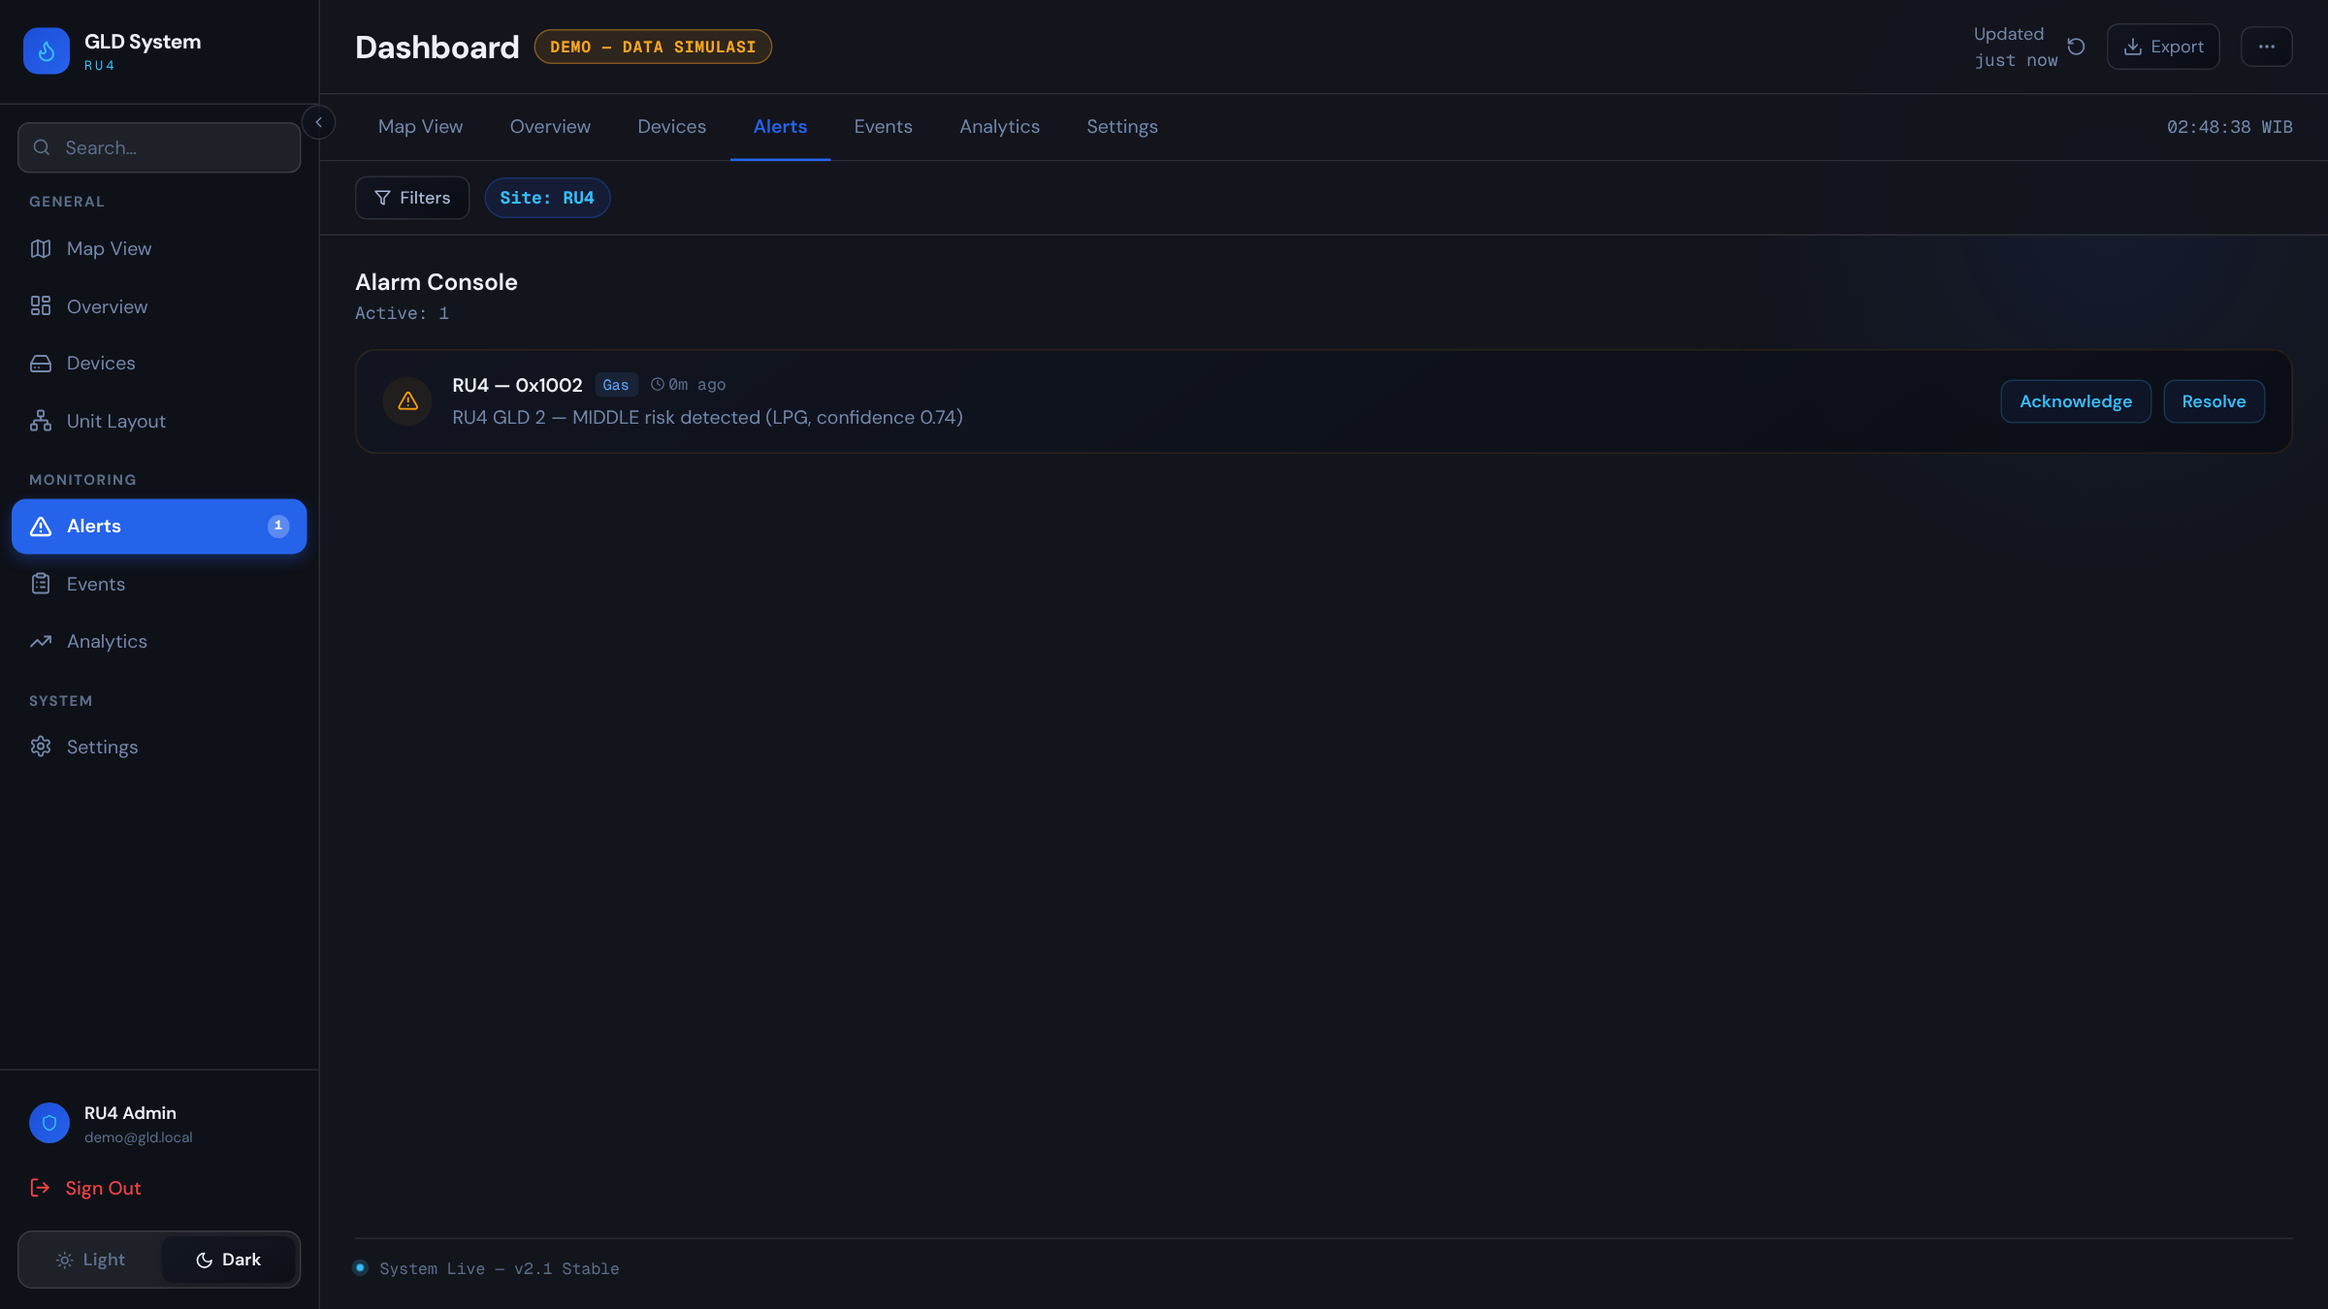
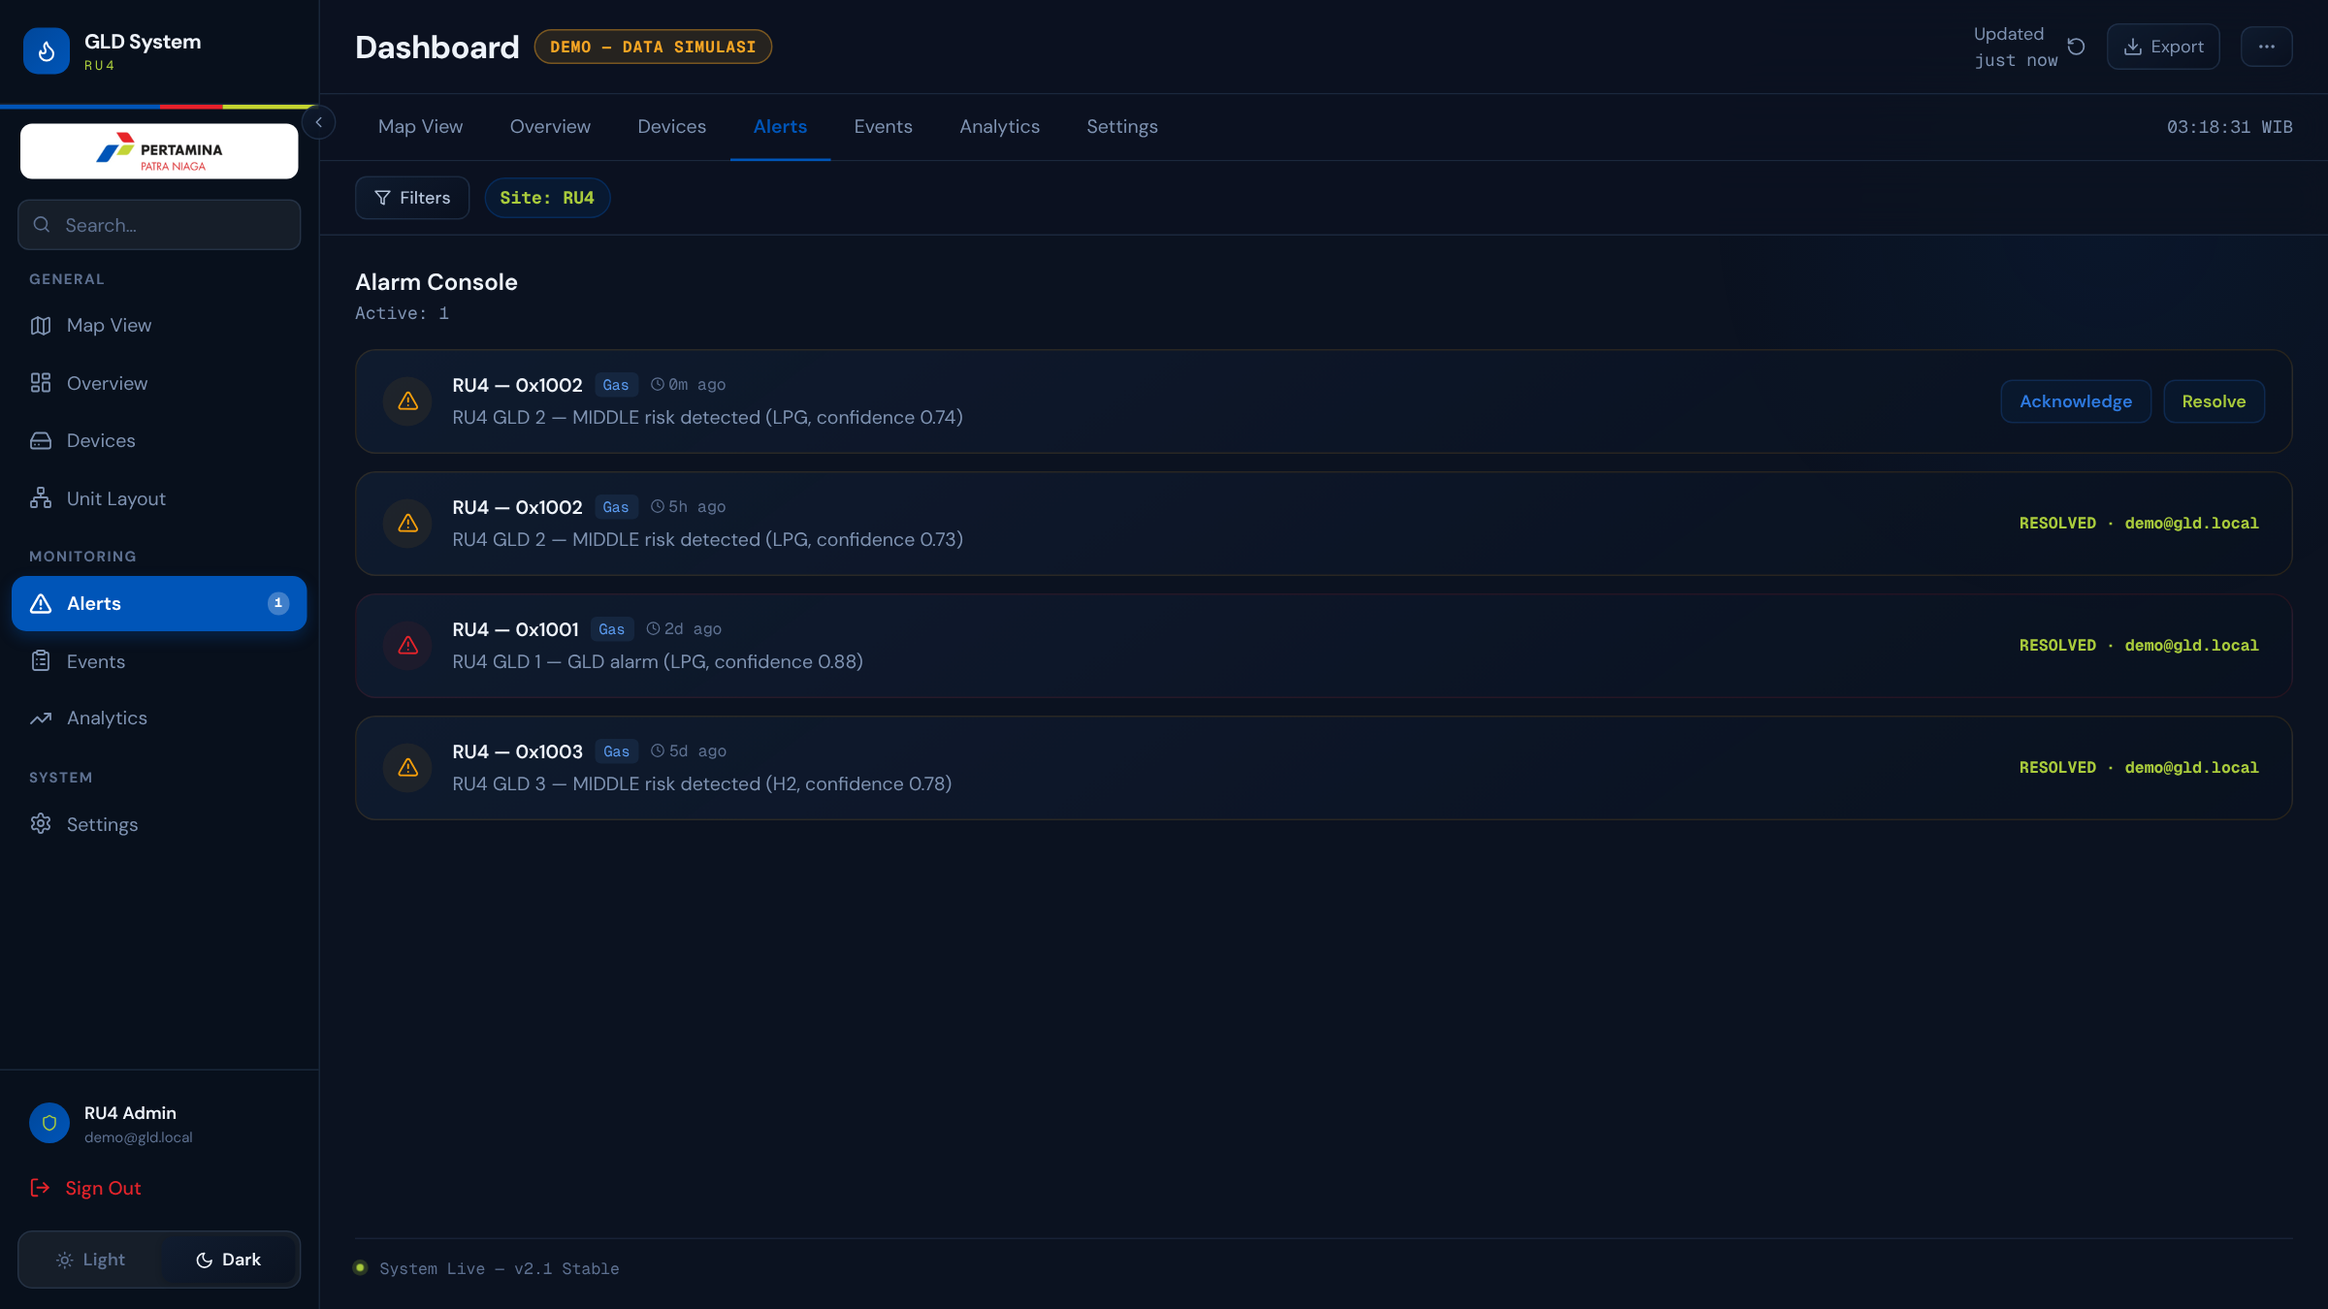
Perbarui demo dashboard: peta tanpa token, riwayat 7 hari, tema Pertamina
- Screenshot baru (14 per langkah + 10 peta/analytics/tema terang-gelap).
- HTML mandiri dipalet ulang ke warna logo Pertamina Patra Niaga + pita tiga warna.
- Panduan_Demo diperbarui; memory dec:212.

Claude-Session: https://claude.ai/code/session_01QrYNxeMNwJLh2x3r6hNxym

diff --git a/Deliverables/Demo_Dashboard_GLD_DigitalizationDay/Demo_Dashboard_GLD.html b/Deliverables/Demo_Dashboard_GLD_DigitalizationDay/Demo_Dashboard_GLD.html
@@ -10,21 +10,21 @@
 <style>
 /* Layout: control-room console — scenario bar on top, mesh map + alarm console side by side, fleet table and event log below. */
 :root {
-  --bg: #F3F4F7;
+  --bg: #F2F5FA;
   --panel: #FFFFFF;
   --panel-2: #F7F8FB;
   --line: #DCDFE7;
-  --ink: #262321;
+  --ink: #0A1A30;
   --ink-2: #4E4A47;
   --ink-3: #7C7874;
-  --accent: #2B5FCB;
-  --accent-soft: rgba(43, 95, 203, 0.10);
+  --accent: #0055B8;
+  --accent-soft: rgba(0, 85, 184, 0.10);
   --gas: #D98A0B;
   --gas-soft: rgba(245, 165, 36, 0.16);
-  --ok: #1E8A5A;
-  --ok-soft: rgba(30, 138, 90, 0.12);
-  --crit: #C8332B;
-  --crit-soft: rgba(200, 51, 43, 0.11);
+  --ok: #5E8A12;
+  --ok-soft: rgba(94, 138, 18, 0.12);
+  --crit: #D71F27;
+  --crit-soft: rgba(215, 31, 39, 0.10);
   --off: #9A958F;
   --font-ui: "IBM Plex Sans", "Segoe UI", system-ui, -apple-system, sans-serif;
   --font-data: "IBM Plex Mono", ui-monospace, "Cascadia Mono", Consolas, monospace;
@@ -32,23 +32,23 @@
 }
 @media (prefers-color-scheme: dark) {
   :root:not([data-theme="light"]) {
-    --bg: #17171A; --panel: #212024; --panel-2: #1B1B1E; --line: #34323A;
+    --bg: #0B1220; --panel: #111C2F; --panel-2: #0D1626; --line: #22324D;
     --ink: #EEECE9; --ink-2: #C3BFBA; --ink-3: #8D8984;
-    --accent: #6F97F0; --accent-soft: rgba(111, 151, 240, 0.14);
+    --accent: #3D8BEA; --accent-soft: rgba(61, 139, 234, 0.16);
     --gas: #F5A524; --gas-soft: rgba(245, 165, 36, 0.16);
-    --ok: #46C08A; --ok-soft: rgba(70, 192, 138, 0.13);
-    --crit: #F0625A; --crit-soft: rgba(240, 98, 90, 0.15);
+    --ok: #A9CB3C; --ok-soft: rgba(169, 203, 60, 0.14);
+    --crit: #EE3A40; --crit-soft: rgba(238, 58, 64, 0.15);
     --off: #6E6A66;
     color-scheme: dark;
   }
 }
 :root[data-theme="dark"] {
-  --bg: #17171A; --panel: #212024; --panel-2: #1B1B1E; --line: #34323A;
+  --bg: #0B1220; --panel: #111C2F; --panel-2: #0D1626; --line: #22324D;
   --ink: #EEECE9; --ink-2: #C3BFBA; --ink-3: #8D8984;
-  --accent: #6F97F0; --accent-soft: rgba(111, 151, 240, 0.14);
+  --accent: #3D8BEA; --accent-soft: rgba(61, 139, 234, 0.16);
   --gas: #F5A524; --gas-soft: rgba(245, 165, 36, 0.16);
-  --ok: #46C08A; --ok-soft: rgba(70, 192, 138, 0.13);
-  --crit: #F0625A; --crit-soft: rgba(240, 98, 90, 0.15);
+  --ok: #A9CB3C; --ok-soft: rgba(169, 203, 60, 0.14);
+  --crit: #EE3A40; --crit-soft: rgba(238, 58, 64, 0.15);
   --off: #6E6A66;
   color-scheme: dark;
 }
@@ -60,6 +60,8 @@ body {
   padding-right: max(16px, env(safe-area-inset-right, 0px));
   padding-block: 16px 32px;
 }
+.brandband { display: flex; height: 4px; border-radius: 2px; overflow: hidden; }
+.brandband i { display: block; }
 .wrap { max-width: 1440px; margin: 0 auto; display: grid; gap: 16px; }
 .mono { font-family: var(--font-data); font-variant-numeric: tabular-nums; }
 h1, h2 { margin: 0; text-wrap: balance; }
@@ -70,7 +72,7 @@ button:focus-visible { outline: 2px solid var(--accent); outline-offset: 2px; }
 /* header */
 .top { display: flex; flex-wrap: wrap; align-items: center; justify-content: space-between; gap: 12px; }
 .brand { display: flex; align-items: center; gap: 12px; min-width: 0; }
-.mark { width: 40px; height: 40px; border-radius: 10px; background: var(--accent); display: grid; place-items: center; flex: none; }
+.mark { width: 40px; height: 40px; border-radius: 10px; background: #0055B8; display: grid; place-items: center; flex: none; }
 .brand h1 { font-size: 20px; font-weight: 700; letter-spacing: -0.01em; }
 .brand p { margin: 0; font-size: 12px; color: var(--ink-3); }
 .badge-demo { font: 600 11px var(--font-data); letter-spacing: 0.06em; color: var(--gas); background: var(--gas-soft); border: 1px solid var(--gas); padding: 3px 10px; border-radius: 999px; }
@@ -78,14 +80,14 @@ button:focus-visible { outline: 2px solid var(--accent); outline-offset: 2px; }
 .clock { font-size: 13px; color: var(--ink-2); }
 
 /* scenario bar */
-.scenario { background: var(--ink); color: #F3F1EE; border-radius: 14px; padding: 16px 18px; display: grid; gap: 12px; }
+.scenario { background: #0A1A30; color: #F3F1EE; border-radius: 14px; padding: 16px 18px; display: grid; gap: 12px; }
 :root[data-theme="dark"] .scenario { background: #0E0E10; }
 @media (prefers-color-scheme: dark) { :root:not([data-theme="light"]) .scenario { background: #0E0E10; } }
 .steps { display: flex; flex-wrap: wrap; gap: 8px; }
 .step { border: 1px solid rgba(255,255,255,0.18); background: transparent; color: #CFCBC6; border-radius: 999px; padding: 6px 12px; font-size: 12px; display: flex; gap: 8px; align-items: center; }
 .step .n { font-family: var(--font-data); opacity: 0.7; }
-.step[aria-current="step"] { background: #2B5FCB; border-color: #2B5FCB; color: #fff; }
-.step.is-alarm[aria-current="step"] { background: #C8332B; border-color: #C8332B; }
+.step[aria-current="step"] { background: #0055B8; border-color: #0055B8; color: #fff; }
+.step.is-alarm[aria-current="step"] { background: #E8202A; border-color: #E8202A; }
 .say { display: grid; grid-template-columns: minmax(0, 1fr) auto; gap: 16px; align-items: start; }
 .say h3 { margin: 0 0 4px; font-size: 17px; }
 .say p { margin: 0; color: #D9D5D0; max-width: 90ch; }
@@ -93,7 +95,7 @@ button:focus-visible { outline: 2px solid var(--accent); outline-offset: 2px; }
 .say .hint b { color: #F5A524; font-weight: 600; }
 .controls { display: flex; gap: 8px; flex-wrap: wrap; justify-content: flex-end; }
 .btn { border-radius: 8px; padding: 7px 14px; border: 1px solid rgba(255,255,255,0.22); background: rgba(255,255,255,0.06); color: #F3F1EE; font-size: 13px; font-weight: 500; }
-.btn.primary { background: #2B5FCB; border-color: #2B5FCB; }
+.btn.primary { background: #0055B8; border-color: #0055B8; }
 .btn[aria-pressed="true"] { background: #F5A524; border-color: #F5A524; color: #262321; }
 @media (max-width: 720px) { .say { grid-template-columns: 1fr; } .controls { justify-content: flex-start; } }
 
@@ -170,6 +172,7 @@ td .id { font-size: 12px; color: var(--ink-3); }
 <body>
 <div class="wrap">
 
+  <div class="brandband" aria-hidden="true"><i style="flex:5;background:#0055B8"></i><i style="flex:2;background:#E8202A"></i><i style="flex:3;background:#C4D530"></i></div>
   <header class="top">
     <div class="brand">
       <div class="mark" aria-hidden="true">

diff --git a/memory/decisions.md b/memory/decisions.md
@@ -343,3 +343,4 @@ Keputusan yang membentuk deliverable & arah kerja. Format: ID · tanggal · kepu
 | dec:209 | 12 Okt 2026 | **Sampel GLD2-0x1001 berisi baterai litium-ion 7 sel 18650 (1S7P)** — dikonfirmasi user. Dimasukkan ke 2 surat sampel (GTS & Bea Cukai): UN 3481 (baterai dalam peralatan), alat mati & terlindung hubung singkat, lampiran ringkasan uji UN 38.3. Kapasitas per sel **belum dikonfirmasi** (spek lama 4000 mAh tidak dipakai sbg final, dec:52) → placeholder. Catatan: bila 4000 mAh/sel → ≈103,6 Wh (>100 Wh, perlu persetujuan maskapai, maks 160 Wh); ≤3860 mAh/sel → <100 Wh. Baterai di dalam sampel juga relevan utk lingkup penilaian Ex (terminal BAT masih 'decision required'). | User: "Baterai litokala kan ya, 7" |
 | dec:210 | 12 Okt 2026 | **Surat sampel versi KOP (dari user, sudah diisi: no. 121 & 122/PT LAPI GU/U.I/X/2026, penandatangan Harry Fardiman – Direktur Utama/CEO, pembawa Tresnandi Indra Mukti – Marketing Manager, GA894 12 Okt 2026, alamat GTS Floor 2 Bldg D-1 No.128 Shenfu Rd Minhang Shanghai, nilai USD 10)** dicek & dikoreksi → `Deliverables/Paket_Bawa_Sampel_GTS_12Oktober2026/`: baris baterai terpotong & berbahasa Indonesia di surat EN dibetulkan (+UN 3481), typo alamat 'SHngahi'/'Road ,', 'China' dobel, tanggal penerbangan EN, kurung siku di Enclosures, kop nomor/perihal BC dirapikan. Lampiran disiapkan: L1 foto sampel (4 foto, antena di atas), L2 form aplikasi ATEX yg terkirim 29 Sep; L3 paspor dari user. Kapasitas baterai (Wh) tetap tidak dicantumkan — belum ada data. | User: "coba re cek...lampirannya yg bagus yg mana ? biar saya Print" |
 | dec:211 | 19 Okt 2026 | **Demo dashboard Digitalization Day disiapkan, 2 jalur** (permintaan klien via WA 18 Okt: "Ada screenshot dashboard? Atau html nya?" + user: "dashboard dan htmlnya harus bisa didemokan skenarionya"). (A) **Dashboard asli** `RavellerH/gasleakdetectionV2-April` branch `ccr-24ee6292-uhpqlk`, folder `demo/digitalization-day/` (start-demo.bat/.sh, broker MQTT lokal, reset DB RU4, pemutar skenario yg mengirim JSON identik keluaran Node-RED PertaminaGLD). (B) **HTML mandiri offline** `Deliverables/Demo_Dashboard_GLD_DigitalizationDay/Demo_Dashboard_GLD.html` (+ Artifact privat https://claude.ai/artifact/M6A7UFevy3X9qFPacFeDVe). Skenario sama 5 langkah, selaras adegan 6–7 video: normal → LPG 74% MIDDLE di GLD 2 → alarm push LPG 93% → CH 2 mati, GLD 2 & CH 5 dialihkan lewat CH 3 → pulih. Semua berlabel **DEMO — DATA SIMULASI**. 14 screenshot dashboard asli per langkah di `screenshots/`. Saat latihan ditemukan & diperbaiki bug aplikasi: daftar device tak pernah refresh otomatis; Alarm Console memakai status palsu bergilir & Acknowledge hanya lokal; KPI Overview berisi angka tren hardcode (dihapus); heatmap mewarnai Clean Air sbg risiko tinggi. Batasan: Map View butuh token Mapbox + internet; sinyal GLD tampil −100 dBm karena Node-RED belum mengirim RSSI per GLD. | Klien (WA) + user |
+| dec:212 | 19 Okt 2026 | **Demo dashboard diperlengkap atas permintaan user** ("butuh map dan heatmap dan analysis semua, juga tema terang gelap sesuai dengan pertamina"): (1) **Map View ru-frontend pindah ke MapLibre tanpa token** (tile lokal `public/tiles` → OSM online → latar polos bertema; dulu Mapbox wajib token+internet); (2) **riwayat simulasi 7 hari** di `demo/digitalization-day/reset-db.js` (udara bersih tiap 10 menit + 3 kejadian lampau RESOLVED) agar Analytics/heatmap/log terisi; (3) **palet Pertamina Patra Niaga** dari `scripts/assets/lgu_cover/logo_pertamina.png` (biru ≈#0055B8, merah ≈#E8202A, hijau ≈#C4D530) utk tema gelap (navy) & terang + logo di sidebar/login + pita tiga warna; HTML mandiri ikut dipalet ulang (Artifact v2). Bug tambahan diperbaiki: grafik Analytics & pin peta menghitung Clean Air sbg kadar gas; badge/KPI alarm menghitung alarm yg sudah RESOLVED; panel peta tetap gelap di tema terang. HQ frontend (`apps/frontend`) belum dipalet ulang. | User |

diff --git a/Deliverables/Demo_Dashboard_GLD_DigitalizationDay/Panduan_Demo.md b/Deliverables/Demo_Dashboard_GLD_DigitalizationDay/Panduan_Demo.md
@@ -1,6 +1,6 @@
 # Panduan Demo Dashboard GLD — Digitalization Day
 
-Status: **siap latihan** (19 Okt 2026). Semua data di demo adalah **DATA SIMULASI** dan diberi label begitu di layar.
+Status: **siap latihan** (19 Okt 2026, diperbarui: peta tanpa token, riwayat 7 hari, tema Pertamina). Semua data di demo adalah **DATA SIMULASI** dan diberi label begitu di layar.
 
 Ada dua cara mendemokan skenario yang sama. Pilih sesuai kondisi di lokasi.
 
@@ -40,12 +40,18 @@ Naskah narasi tiap langkah tampil di jendela skenario (A) dan di bilah atas hala
 
 Buka `Demo_Dashboard_GLD.html` di Chrome/Edge. Tombol **Langkah berikutnya** atau panah kanan / spasi. **Putar otomatis** menjalankan kelima langkah sendiri (±80 detik).
 
+## Yang sudah tersedia di dashboard demo (A)
+
+- **Map View tanpa token**: peta MapLibre. Basemap diambil dari tile lokal (`public/tiles`, diunduh otomatis oleh `start-demo.bat` saat pertama kali ada internet), atau OSM online, atau latar polos sesuai tema bila offline total. Perangkat, garis topologi, dan panel tren 24 jam tetap tampil di ketiga kondisi.
+- **Heatmap & Analytics terisi**: `reset-db.js` membuat riwayat simulasi 7 hari (udara bersih tiap 10 menit per GLD) + 3 kejadian lampau yang sudah diselesaikan operator (H2 di GLD 3 lima hari lalu, alarm LPG di GLD 1 dua hari lalu, LPG MIDDLE di GLD 2 enam jam lalu). Grafik 24 jam dan 7 hari, heatmap, dan log kejadian langsung berisi saat demo dibuka.
+- **Tema terang & gelap berpalet Pertamina Patra Niaga** (biru, merah, hijau logo) + logo di sidebar dan halaman login. Ganti tema dari tombol Light/Dark di kiri bawah.
+
 ## Yang perlu dicek sebelum hari H
 
-- [ ] **Peta (Map View) dashboard asli butuh token Mapbox dan internet.** Tanpa token, tab Map View menampilkan pesan "Set NEXT_PUBLIC_MAPBOX_TOKEN". Hindari tab ini atau isi token di `apps/ru-frontend/.env.local` sebelum build. Tab lain tidak butuh internet.
+- [ ] Jalankan `start-demo.bat` sekali **saat ada internet** supaya tile peta RU4 terunduh (±560 tile). Setelah itu peta bisa offline. Tanpa itu, peta tetap jalan tapi latarnya polos.
 - [ ] Kolom **Signal** GLD tampil −100 dBm / Weak. Node-RED belum mengirim RSSI per GLD, jadi nilainya belum ada. Jangan disorot.
 - [ ] Coba sekali penuh di laptop yang dipakai di lokasi.
-- [ ] Untuk tim video: `screenshots/` berisi 14 tangkapan dashboard asli per langkah (2400×1350).
+- [ ] Untuk tim video: `screenshots/` berisi 14 tangkapan per langkah skenario, `screenshots/tema_peta_analytics/` berisi 10 tangkapan peta, Analytics 24 jam/7 hari, dan tema terang/gelap (2400×1350). Peta di tangkapan ini berlatar polos karena dibuat tanpa akses tile.
 
 ## Screenshot
 

diff --git a/CLAUDE.md b/CLAUDE.md
@@ -159,7 +159,7 @@ Repo dokumentasi & pelaporan proyek **Gas Leak Detection (GLD) Tahap 2** — sis
 
 - 🆕 **12 Okt — surat pengantar sampel GLD ke GTS Shanghai & surat keterangan Bea Cukai dilengkapi** (dec:208): `Deliverables/Surat_Pengantar_Sampel_GLD_ke_GTS_Shanghai.{docx,pdf}` (EN) & `Surat_Keterangan_Sampel_GLD_ke_Bea_Cukai.{docx,pdf}` (ID); data yg belum ada (alamat GTS, nilai pabean, penandatangan, paspor/penerbangan, status baterai) ditandai kuning, tidak ditebak. **Update (dec:209)**: sampel berisi baterai Li-ion 7×18650 (1S7P) — kapasitas per sel belum dikonfirmasi (>3860 mAh/sel ⇒ >100 Wh, perlu izin maskapai). **Final cetak (dec:210)**: `Deliverables/Paket_Bawa_Sampel_GTS_12Oktober2026/` — 2 surat KOP terkoreksi + Lampiran 1 foto + Lampiran 2 form aplikasi.
 
-- 🆕 **19 Okt — Demo dashboard Digitalization Day siap latihan** (dec:211): klien minta screenshot/HTML dashboard utk video & presentasi minggu depan. Dua jalur dgn skenario 5 langkah yg sama (normal → LPG MIDDLE → alarm push → CH 2 mati + reroute mesh → pulih), semua **DATA SIMULASI**: (A) dashboard asli dari repo aplikasi (`demo/digitalization-day/start-demo.bat`), (B) HTML mandiri offline `Deliverables/Demo_Dashboard_GLD_DigitalizationDay/Demo_Dashboard_GLD.html`. Panduan + 14 screenshot asli di folder yg sama. Beberapa bug dashboard ditemukan & diperbaiki saat latihan (refresh device, Alarm Console palsu, KPI tren hardcode, heatmap Clean Air). Map View butuh token Mapbox + internet.
+- 🆕 **19 Okt — Demo dashboard Digitalization Day siap latihan** (dec:211): klien minta screenshot/HTML dashboard utk video & presentasi minggu depan. Dua jalur dgn skenario 5 langkah yg sama (normal → LPG MIDDLE → alarm push → CH 2 mati + reroute mesh → pulih), semua **DATA SIMULASI**: (A) dashboard asli dari repo aplikasi (`demo/digitalization-day/start-demo.bat`), (B) HTML mandiri offline `Deliverables/Demo_Dashboard_GLD_DigitalizationDay/Demo_Dashboard_GLD.html`. Panduan + 14 screenshot asli di folder yg sama. Beberapa bug dashboard ditemukan & diperbaiki saat latihan (refresh device, Alarm Console palsu, KPI tren hardcode, heatmap Clean Air). Update sama hari (dec:212): Map View kini MapLibre tanpa token (offline dgn tile lokal), riwayat simulasi 7 hari agar Analytics/heatmap terisi, tema terang/gelap berpalet Pertamina Patra Niaga + logo.
 
 ## 4. Deliverable utama (`Deliverables/`)
 
